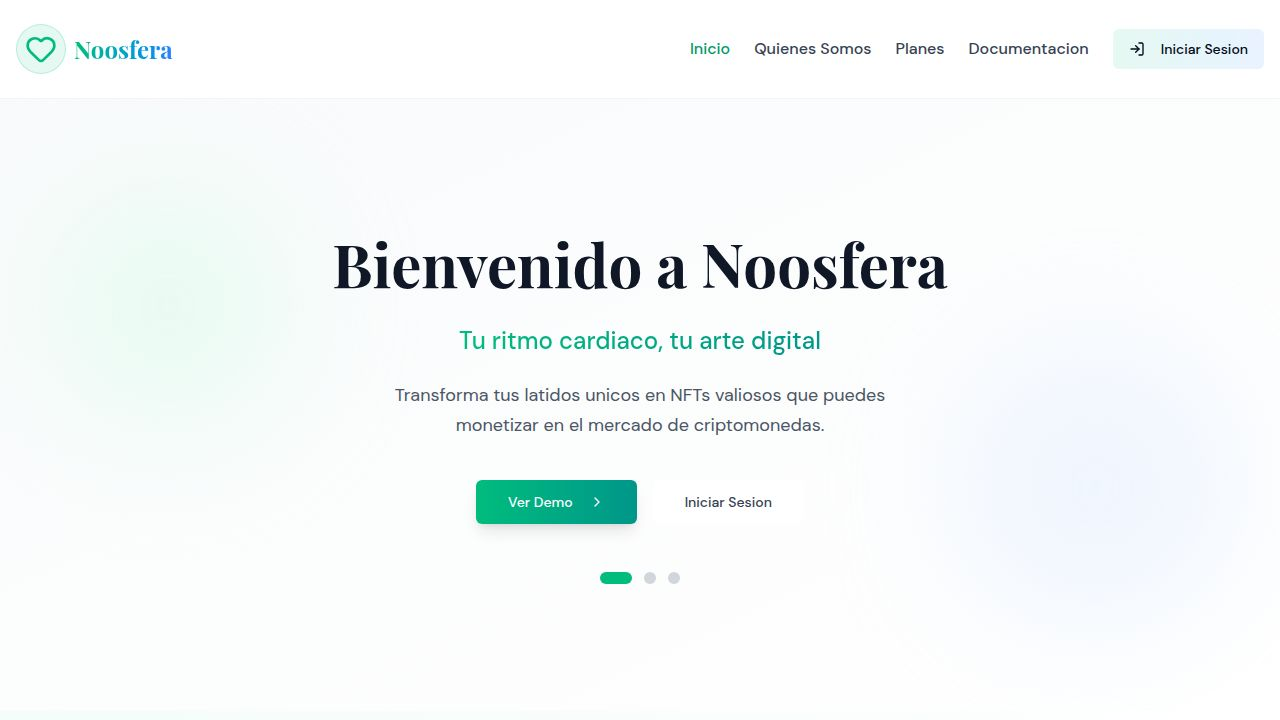
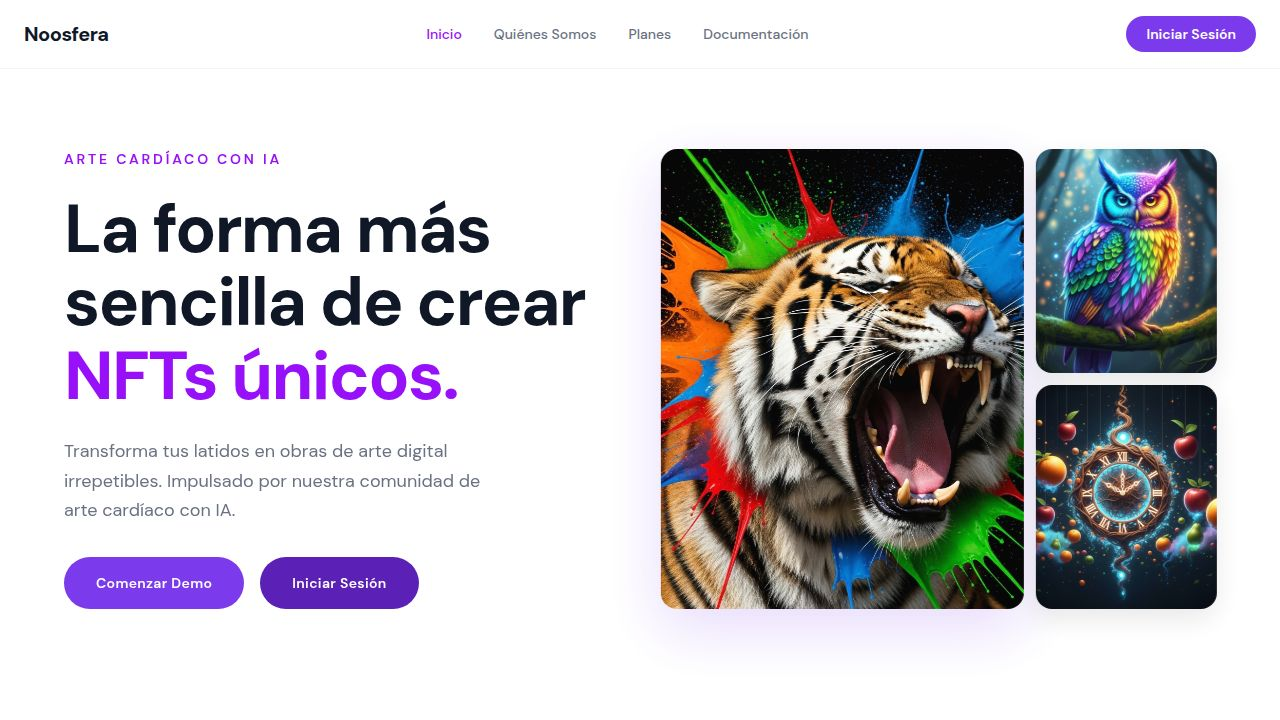
Update testimonial and CTA sections with new styling and content
Refactors the testimonial section to center text, reposition reviewer information, and adds a new ghost image. Updates the CTA section with a purple background, new text, and adjusted button styles.

Replit-Commit-Author: Agent
Replit-Commit-Session-Id: 33a64681-d686-428b-9dfa-bff84c88bbbe
Replit-Commit-Checkpoint-Type: full_checkpoint
Replit-Commit-Event-Id: 4b648474-9ba0-4703-9aa9-16dc42e67914
Replit-Commit-Screenshot-Url: https://storage.googleapis.com/screenshot-production-us-central1/85052126-315f-419b-94a3-77156c62cf9a/33a64681-d686-428b-9dfa-bff84c88bbbe/PjNLylQ
Replit-Helium-Checkpoint-Created: true

diff --git a/artifacts/noosfera/src/components/recent-creations.tsx b/artifacts/noosfera/src/components/recent-creations.tsx
@@ -16,7 +16,6 @@ const BASE_ITEMS = [
   { src: "/images/nft-10.png", title: "Phoenix Rise" },
 ]
 
-// Triple the items for infinite loop illusion
 const ITEMS = [...BASE_ITEMS, ...BASE_ITEMS, ...BASE_ITEMS]
 const N = BASE_ITEMS.length
 
@@ -34,54 +33,39 @@ const BENEFITS = [
 ]
 
 export function RecentCreations() {
-  // Start in the middle group so we can scroll in both directions
   const [active, setActive] = useState(N + 2)
-  const trackRef    = useRef<HTMLDivElement>(null)
-  const skipAnim    = useRef(false)
+  const trackRef  = useRef<HTMLDivElement>(null)
+  const skipAnim  = useRef(false)
   const [, navigate] = useLocation()
 
-  /* ── Center the active card in the track ── */
   const centerActive = useCallback((idx: number, smooth: boolean) => {
     const track = trackRef.current
     if (!track) return
     const card = track.children[idx] as HTMLElement
     if (!card) return
-    const trackW = track.clientWidth
-    const cardLeft = card.offsetLeft
-    const cardW    = card.clientWidth
     track.scrollTo({
-      left: cardLeft - trackW / 2 + cardW / 2,
+      left: card.offsetLeft - track.clientWidth / 2 + card.clientWidth / 2,
       behavior: smooth ? "smooth" : "instant",
     })
   }, [])
 
-  /* ── Auto-advance ── */
   useEffect(() => {
-    const id = setInterval(() => {
-      setActive(prev => prev + 1)
-    }, INTERVAL)
+    const id = setInterval(() => setActive(prev => prev + 1), INTERVAL)
     return () => clearInterval(id)
   }, [])
 
-  /* ── Scroll + silent-jump when reaching edge groups ── */
   useEffect(() => {
     if (skipAnim.current) {
-      // Do instant jump first, then re-enable smooth
       centerActive(active, false)
       skipAnim.current = false
       return
     }
-
-    // Smooth scroll
     centerActive(active, true)
-
-    // If we've drifted into the last group, silently teleport to middle group
     if (active >= N * 2) {
       const target = active - N
       skipAnim.current = true
-      setTimeout(() => setActive(target), 500) // wait for smooth scroll to finish
+      setTimeout(() => setActive(target), 500)
     }
-    // If somehow we go below (not with auto-play but safe to handle)
     if (active < N) {
       const target = active + N
       skipAnim.current = true
@@ -96,81 +80,51 @@ export function RecentCreations() {
       {/* ── Carousel ── */}
       <section className="py-20 bg-white overflow-hidden">
         <div className="container mx-auto px-6 mb-10 text-center">
-          <motion.p
-            className="text-xs font-semibold uppercase tracking-[0.2em] text-purple-500 mb-3"
+          <motion.p className="text-xs font-semibold uppercase tracking-[0.2em] text-purple-500 mb-3"
             initial={{ opacity: 0, y: 16 }} whileInView={{ opacity: 1, y: 0 }}
-            transition={{ duration: 0.5 }} viewport={{ once: true }}
-          >
+            transition={{ duration: 0.5 }} viewport={{ once: true }}>
             Comunidad
           </motion.p>
-          <motion.h2
-            className="text-4xl md:text-5xl font-black text-gray-900"
+          <motion.h2 className="text-4xl md:text-5xl font-black text-gray-900 text-center"
             style={{ fontFamily: "'DM Sans', sans-serif" }}
             initial={{ opacity: 0, y: 16 }} whileInView={{ opacity: 1, y: 0 }}
-            transition={{ duration: 0.5, delay: 0.08 }} viewport={{ once: true }}
-          >
+            transition={{ duration: 0.5, delay: 0.08 }} viewport={{ once: true }}>
             Creaciones Recientes
           </motion.h2>
         </div>
 
-        {/* Track */}
-        <div
-          ref={trackRef}
+        <div ref={trackRef}
           className="flex items-center overflow-x-hidden pb-4 px-8"
-          style={{ gap: GAP, userSelect: "none" }}
-        >
+          style={{ gap: GAP, userSelect: "none" }}>
           {ITEMS.map((item, idx) => {
             const isActive = idx === active
             return (
-              <div
-                key={`${item.src}-${idx}`}
+              <div key={`${item.src}-${idx}`}
                 className="relative flex-shrink-0 rounded-2xl overflow-hidden"
                 style={{
                   width:  isActive ? CARD_W_ACTIVE : CARD_W,
                   height: isActive ? CARD_H_ACTIVE : CARD_H,
-                  transition: skipAnim.current
-                    ? "none"
-                    : "width 0.5s cubic-bezier(.4,0,.2,1), height 0.5s cubic-bezier(.4,0,.2,1)",
-                  boxShadow: isActive
-                    ? "0 28px 64px rgba(124,58,237,0.32)"
-                    : "0 4px 16px rgba(0,0,0,0.09)",
-                }}
-              >
-                <img
-                  src={item.src}
-                  alt={item.title}
+                  transition: skipAnim.current ? "none" : "width 0.5s cubic-bezier(.4,0,.2,1), height 0.5s cubic-bezier(.4,0,.2,1)",
+                  boxShadow: isActive ? "0 28px 64px rgba(124,58,237,0.32)" : "0 4px 16px rgba(0,0,0,0.09)",
+                }}>
+                <img src={item.src} alt={item.title}
                   className="w-full h-full object-cover"
-                  style={{
-                    filter: isActive ? "none" : "brightness(0.70) saturate(0.80)",
-                    transition: "filter 0.5s ease",
-                  }}
-                />
-                {isActive && (
-                  <div className="absolute inset-0 bg-gradient-to-t from-black/60 via-transparent to-transparent" />
-                )}
-                {isActive && (
-                  <p className="absolute bottom-4 left-4 text-white text-sm font-bold tracking-wide">
-                    {item.title}
-                  </p>
-                )}
+                  style={{ filter: isActive ? "none" : "brightness(0.70) saturate(0.80)", transition: "filter 0.5s ease" }} />
+                {isActive && <div className="absolute inset-0 bg-gradient-to-t from-black/60 via-transparent to-transparent" />}
+                {isActive && <p className="absolute bottom-4 left-4 text-white text-sm font-bold tracking-wide">{item.title}</p>}
               </div>
             )
           })}
         </div>
 
-        {/* Dot indicators — only N dots */}
         <div className="flex justify-center gap-2 mt-8">
           {BASE_ITEMS.map((_, idx) => (
-            <div
-              key={idx}
-              className="rounded-full"
+            <div key={idx} className="rounded-full"
               style={{
-                width:  idx === dotIndex ? 28 : 8,
-                height: 8,
+                width: idx === dotIndex ? 28 : 8, height: 8,
                 backgroundColor: idx === dotIndex ? "#7c3aed" : "#e5e7eb",
                 transition: "width 0.4s ease, background-color 0.4s ease",
-              }}
-            />
+              }} />
           ))}
         </div>
       </section>
@@ -178,29 +132,21 @@ export function RecentCreations() {
       {/* ── CTA Banner ── */}
       <section className="py-16 border-t border-gray-100">
         <div className="container mx-auto px-6 text-center max-w-3xl">
-          <motion.h2
-            className="text-2xl md:text-3xl font-black mb-3"
+          <motion.h2 className="text-2xl md:text-3xl font-black mb-3"
             style={{ fontFamily: "'DM Sans', sans-serif" }}
             initial={{ opacity: 0, y: 16 }} whileInView={{ opacity: 1, y: 0 }}
-            transition={{ duration: 0.5 }} viewport={{ once: true }}
-          >
+            transition={{ duration: 0.5 }} viewport={{ once: true }}>
             <span className="text-purple-600">Únete a millones de personas</span>{" "}
             <span className="text-gray-900">en la creación de imágenes con IA.</span>
           </motion.h2>
-
-          <motion.p
-            className="text-gray-500 mb-10"
+          <motion.p className="text-gray-500 mb-10"
             initial={{ opacity: 0, y: 12 }} whileInView={{ opacity: 1, y: 0 }}
-            transition={{ duration: 0.5, delay: 0.08 }} viewport={{ once: true }}
-          >
+            transition={{ duration: 0.5, delay: 0.08 }} viewport={{ once: true }}>
             Comienza tu propio viaje creativo con Noosfera.
           </motion.p>
-
-          <motion.div
-            className="flex flex-wrap justify-center gap-8"
+          <motion.div className="flex flex-wrap justify-center gap-8"
             initial={{ opacity: 0, y: 12 }} whileInView={{ opacity: 1, y: 0 }}
-            transition={{ duration: 0.5, delay: 0.14 }} viewport={{ once: true }}
-          >
+            transition={{ duration: 0.5, delay: 0.14 }} viewport={{ once: true }}>
             {BENEFITS.map(label => (
               <span key={label} className="flex items-center gap-2 text-sm font-medium text-gray-600">
                 <span className="text-purple-600 font-black text-base">✓</span>
@@ -211,87 +157,75 @@ export function RecentCreations() {
         </div>
       </section>
 
-      {/* ── Feature / Testimonial Section ── */}
-      <section className="py-20 border-t border-gray-100 bg-white">
-        <div className="container mx-auto px-6">
-          <div className="flex flex-col lg:flex-row items-center gap-12 max-w-5xl mx-auto">
+      {/* ── Testimonial / Feature Section ── */}
+      <section className="overflow-hidden border-t border-gray-100 bg-white">
+        <div className="flex flex-col lg:flex-row min-h-[520px]">
 
-            {/* Left — text + testimonial */}
-            <motion.div
-              className="flex-1 space-y-6"
-              initial={{ opacity: 0, x: -24 }} whileInView={{ opacity: 1, x: 0 }}
-              transition={{ duration: 0.6 }} viewport={{ once: true }}
-            >
-              <h2
-                className="text-3xl md:text-4xl font-black text-gray-900 leading-tight"
-                style={{ fontFamily: "'DM Sans', sans-serif" }}
-              >
-                Crea Arte Digital con IA
-              </h2>
-              <p className="text-gray-500 leading-relaxed">
-                Conecta tus latidos y observa cómo nuestra IA transforma tus patrones cardíacos
-                en obras visuales únicas e irrepetibles.
-              </p>
+          {/* Left — big ghost image filling full column */}
+          <motion.div className="lg:w-1/2 min-h-[320px] lg:min-h-0"
+            initial={{ opacity: 0, x: -24 }} whileInView={{ opacity: 1, x: 0 }}
+            transition={{ duration: 0.7 }} viewport={{ once: true }}>
+            <img src="/images/nft-ghost.png" alt="Fantasma digital"
+              className="w-full h-full object-cover"
+              style={{ minHeight: 420 }} />
+          </motion.div>
 
-              {/* Stars */}
-              <div className="flex gap-1">
-                {[...Array(5)].map((_, i) => (
-                  <Star key={i} className="w-5 h-5 fill-yellow-400 text-yellow-400" />
-                ))}
-              </div>
+          {/* Right — text content */}
+          <motion.div className="lg:w-1/2 flex flex-col justify-center px-10 py-14 space-y-6"
+            initial={{ opacity: 0, x: 24 }} whileInView={{ opacity: 1, x: 0 }}
+            transition={{ duration: 0.7, delay: 0.1 }} viewport={{ once: true }}>
 
-              {/* Quote */}
-              <blockquote className="text-gray-700 leading-relaxed">
-                Noosfera es{" "}
-                <span className="text-purple-600 font-semibold">algo verdaderamente increíble</span>
-                , puedes crear retratos únicos, obras abstractas y arte digital que nunca se
-                repite — todo desde tus propios datos cardíacos.
-              </blockquote>
+            <h2 className="text-3xl md:text-4xl font-black text-gray-900 leading-tight text-center"
+              style={{ fontFamily: "'DM Sans', sans-serif" }}>
+              Crea Arte Digital con IA
+            </h2>
 
-              {/* Reviewer */}
+            <p className="text-gray-500 leading-relaxed text-center">
+              Conecta tus latidos y observa cómo nuestra IA transforma tus patrones cardíacos
+              en obras visuales únicas e irrepetibles.
+            </p>
+
+            {/* Reviewer info + Stars in same row */}
+            <div className="flex items-center gap-4 justify-center flex-wrap">
+              {/* Avatar + name + label */}
               <div className="flex items-center gap-3">
-                <div
-                  className="w-10 h-10 rounded-full flex items-center justify-center text-white text-sm font-bold"
-                  style={{ backgroundColor: "#7c3aed" }}
-                >
+                <div className="w-10 h-10 rounded-full flex items-center justify-center text-white text-sm font-bold flex-shrink-0"
+                  style={{ backgroundColor: "#7c3aed" }}>
                   MC
                 </div>
                 <div>
-                  <p className="font-semibold text-gray-900 text-sm">María Camila</p>
+                  <p className="font-semibold text-gray-900 text-sm leading-tight">María Camila</p>
                   <p className="text-xs text-gray-400 uppercase tracking-wide">Usuario verificado</p>
                 </div>
               </div>
 
-              {/* CTA */}
+              {/* Stars */}
+              <div className="flex gap-0.5">
+                {[...Array(5)].map((_, i) => (
+                  <Star key={i} className="w-5 h-5 fill-yellow-400 text-yellow-400" />
+                ))}
+              </div>
+            </div>
+
+            {/* Quote — centered */}
+            <blockquote className="text-gray-700 leading-relaxed text-center">
+              Noosfera es{" "}
+              <span className="text-purple-600 font-semibold">algo verdaderamente increíble</span>
+              , puedes crear retratos únicos, obras abstractas y arte digital que nunca se
+              repite — todo desde tus propios datos cardíacos.
+            </blockquote>
+
+            {/* CTA button */}
+            <div className="flex justify-center">
               <button
                 onClick={() => navigate("/auth/login")}
                 className="inline-flex items-center gap-2 px-7 py-4 rounded-full font-semibold text-white text-sm transition-all hover:opacity-90 hover:scale-[1.02]"
-                style={{ backgroundColor: "#7c3aed" }}
-              >
-                Estoy listo para crear algo
+                style={{ backgroundColor: "#7c3aed" }}>
+                Agrega tu reseña
                 <ChevronRight className="w-4 h-4" />
               </button>
-            </motion.div>
-
-            {/* Right — image */}
-            <motion.div
-              className="flex-1 flex justify-center"
-              initial={{ opacity: 0, x: 24 }} whileInView={{ opacity: 1, x: 0 }}
-              transition={{ duration: 0.6, delay: 0.1 }} viewport={{ once: true }}
-            >
-              <img
-                src="/images/nft-10.png"
-                alt="Arte generado con IA"
-                className="rounded-3xl object-cover"
-                style={{
-                  width: 320,
-                  height: 420,
-                  boxShadow: "0 32px 80px rgba(124,58,237,0.22)",
-                }}
-              />
-            </motion.div>
-
-          </div>
+            </div>
+          </motion.div>
         </div>
       </section>
     </>

diff --git a/artifacts/noosfera/src/pages/home.tsx b/artifacts/noosfera/src/pages/home.tsx
@@ -60,28 +60,28 @@ export default function LandingPage() {
       <RecentCreations />
 
       {/* CTA Section */}
-      <section className="py-20" style={{ background: "linear-gradient(135deg, #f5f3ff 0%, #ede9fe 100%)" }}>
+      <section className="py-20" style={{ backgroundColor: "#7c3aed" }}>
         <div className="container mx-auto px-6 text-center">
           <div className="max-w-2xl mx-auto space-y-6">
-            <p className="text-xs font-semibold uppercase tracking-[0.2em] text-purple-500">Empieza Hoy</p>
-            <h2 className="text-4xl md:text-5xl font-black text-gray-900 leading-tight"
+            <p className="text-xs font-semibold uppercase tracking-[0.2em] text-purple-200">Empieza Hoy</p>
+            <h2 className="text-4xl md:text-5xl font-black text-white leading-tight"
               style={{ fontFamily: "'DM Sans', sans-serif" }}>
               Comienza a Crear<br />
               tu Arte Digital
             </h2>
-            <p className="text-gray-500 text-lg leading-relaxed">
-              Únete a miles de creadores que ya están monetizando sus patrones cardíacos únicos.
+            <p className="text-purple-200 text-lg leading-relaxed">
+              Transforma tus latidos en NFTs únicos y monetiza tu arte digital desde hoy.
             </p>
             <div className="flex flex-col sm:flex-row gap-4 justify-center pt-2">
               <button
                 onClick={showAuth}
-                className="px-8 py-4 rounded-full font-semibold text-white text-sm tracking-wide transition-all hover:opacity-90"
-                style={{ backgroundColor: "#7c3aed" }}>
-                Comenzar Gratis
+                className="px-8 py-4 rounded-full font-semibold text-purple-700 text-sm tracking-wide transition-all hover:opacity-95 hover:scale-[1.02]"
+                style={{ backgroundColor: "#ffffff" }}>
+                Comenzar Demo
               </button>
               <button
                 onClick={() => navigate("/pricing")}
-                className="px-8 py-4 rounded-full font-semibold text-gray-700 text-sm tracking-wide border border-gray-300 hover:border-purple-300 hover:text-purple-600 transition-all bg-white">
+                className="px-8 py-4 rounded-full font-semibold text-white text-sm tracking-wide border border-white/40 hover:bg-white/10 transition-all">
                 Ver Planes
               </button>
             </div>